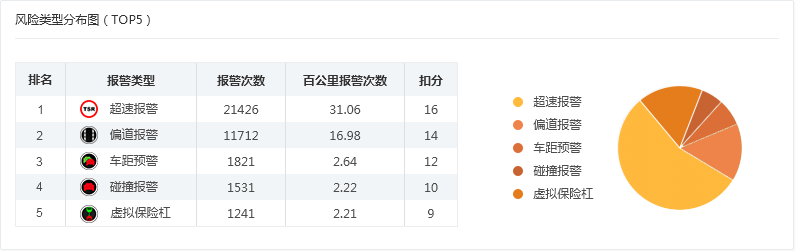
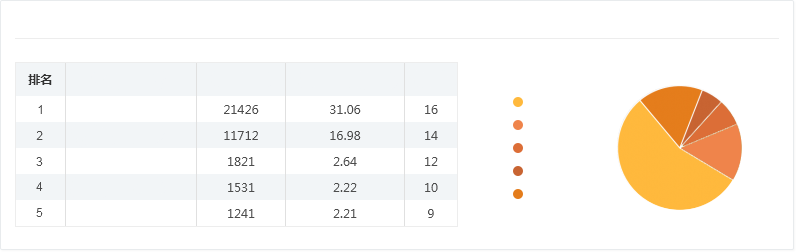
细节再做优化

diff --git a/src/components/custom-report/js/variable.js b/src/components/custom-report/js/variable.js
@@ -3,7 +3,7 @@
  * @Email: kimimi_king@163.com
  * @LastEditors: jsjzh
  * @Date: 2019-02-25 17:34:43
- * @LastEditTime: 2019-03-11 15:18:29
+ * @LastEditTime: 2019-03-11 16:42:12
  * @Description:
  *  组件公用变量
  *  该处不设置 data 相关内容，只设置一些特殊的 chart 样式
@@ -34,48 +34,3 @@ export const pieOption = { series: [{ name: '饼图随机数据' }] }
 export const pieSecondOption = { series: [{ name: '饼图2随机数据', center: ['70%', '65%'] }] }
 
 export const lineOption = { series: [{ name: '折线图随机数据' }] }
-
-export const workingTimeDistributionPieChartOption = {
-  series: [{ name: '报警类型分布', center: ['50%', '45%'] }],
-  legend: { orient: 'horizontal', left: 'center', bottom: '5%', icon: 'circle' }
-}
-
-export const workingTimetimeTendencyLineChartOption = { series: [{ name: '作业趋势' }] }
-
-export const fullTabsGradeAverage = {
-  grid: { top: '20%' },
-  legend: { top: '2%' },
-  series: [
-    { type: 'line', symbolSize: 5, symbol: 'circle', smooth: true, name: '行业平均' },
-    { type: 'line', symbolSize: 5, symbol: 'circle', smooth: true, name: '当前车辆' }
-  ]
-}
-
-export const fullTabsGradeHighway = {
-  grid: { top: '20%' },
-  legend: { top: '2%' },
-  series: [
-    { type: 'line', symbolSize: 5, symbol: 'circle', smooth: true, name: '高速' },
-    { type: 'line', symbolSize: 5, symbol: 'circle', smooth: true, name: '非高速' }
-  ]
-}
-
-export const fullTabsGradeTime = {
-  grid: { top: '20%' },
-  legend: { top: '2%' },
-  series: [
-    { type: 'line', symbolSize: 5, symbol: 'circle', smooth: true, name: '日间' },
-    { type: 'line', symbolSize: 5, symbol: 'circle', smooth: true, name: '夜间' }
-  ]
-}
-
-export const fullTabsGradeDimension = {
-  grid: { top: '20%' },
-  legend: { top: '2%' },
-  series: [
-    { type: 'line', symbolSize: 5, symbol: 'circle', smooth: true, name: '碰撞' },
-    { type: 'line', symbolSize: 5, symbol: 'circle', smooth: true, name: '偏道' },
-    { type: 'line', symbolSize: 5, symbol: 'circle', smooth: true, name: '超速' },
-    { type: 'line', symbolSize: 5, symbol: 'circle', smooth: true, name: '车距' }
-  ]
-}

diff --git a/src/components/custom-report/js/chart-variable.js b/src/components/custom-report/js/chart-variable.js
@@ -3,7 +3,7 @@
  * @Email: kimimi_king@163.com
  * @LastEditors: jsjzh
  * @Date: 2019-02-27 11:18:09
- * @LastEditTime: 2019-03-11 15:06:02
+ * @LastEditTime: 2019-03-11 16:55:58
  * @Description: 该文件只是为了方便管理 default-chart-option，在 variable 中会将这些变量曝露出去
  */
 
@@ -59,7 +59,7 @@ export const defaultPieOption = {
       type: 'pie',
       radius: '55%',
       minAngle: 5,
-      center: ['75%', '65%'],
+      center: ['65%', '60%'],
       itemStyle: { normal: { borderWidth: 1, borderColor: '#e5e5e5' } },
       label: { show: false },
       labelLine: { show: false },

diff --git a/src/utils/exportPDF.js b/src/utils/exportPDF.js
@@ -1,3 +1,11 @@
+/*
+ * @Author: jsjzh
+ * @Email: kimimi_king@163.com
+ * @LastEditors: jsjzh
+ * @Date: 2019-03-06 15:10:59
+ * @LastEditTime: 2019-03-11 16:44:26
+ * @Description: from https://github.com/linwalker/render-html-to-pdf
+ */
 import html2canvas from 'html2canvas'
 import jsPDF from 'jspdf'
 
